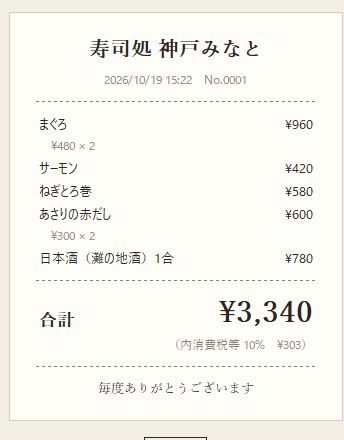
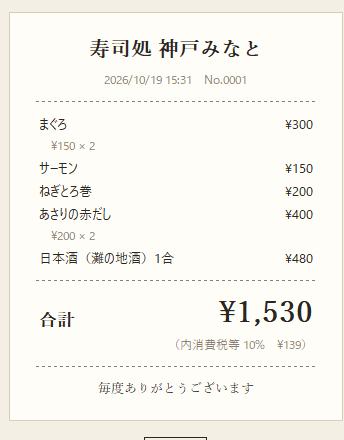
価格を回転寿司チェーンの相場に合わせて見直す
- 握りは1皿120〜330円、サイド200〜550円、ドリンク200〜550円、デザート200〜330円に
- 中とろ・大とろ・うに・いくらは1皿1貫に
- テストの金額と README（メニュー表・価格の根拠・画面画像）を更新

diff --git a/restaurant/menu.py b/restaurant/menu.py
@@ -37,54 +37,54 @@ def _item(id, name, category, price, description, allergens=(), tags=()):
 
 
 MENU = (
-    # ---- 握り（2貫） ----
-    _item("N01", "まぐろ", "握り", 480, "近海本まぐろの赤身", (), ("kids", "teen", "protein")),
-    _item("N02", "中とろ", "握り", 880, "脂と赤身のバランスが絶妙", (), ("hearty", "premium")),
-    _item("N03", "大とろ", "握り", 1280, "口の中でとろける極上部位", (), ("premium", "hearty")),
-    _item("N04", "サーモン", "握り", 420, "とろけるノルウェー産", ("さけ",), ("kids", "teen")),
-    _item("N05", "はまち", "握り", 480, "脂ののった瀬戸内産", (), ("alcohol_pair", "protein")),
-    _item("N06", "明石鯛", "握り", 580, "明石海峡で育った真鯛", (), ("healthy", "senior", "light")),
-    _item("N07", "えび", "握り", 420, "甘みのあるボイルえび", ("えび",), ("kids",)),
-    _item("N08", "いか", "握り", 380, "ねっとり甘いもんごういか", ("いか",), ("light", "alcohol_pair")),
-    _item("N09", "うに", "握り", 980, "北海道産の濃厚な生うに", (), ("premium", "alcohol_pair")),
-    _item("N10", "玉子", "握り", 280, "だしの効いた自家製厚焼き", ("卵", "大豆"), ("kids", "sweet", "senior")),
-    _item("N11", "煮穴子", "握り", 580, "ふっくら煮上げて甘だれで", ("小麦", "大豆"), ("senior", "sweet")),
-    _item("N12", "しめさば", "握り", 420, "自家製の浅じめ", ("さば",), ("alcohol_pair", "healthy")),
-    _item("N13", "ずわいがに", "握り", 780, "身をたっぷりのせて", ("かに",), ("premium",)),
-    _item("N14", "お子さま寿司セット", "握り", 880, "12歳以下限定（まぐろ・サーモン・えび・玉子・巻物）",
+    # ---- 握り（説明に「1貫」とあるもの以外は1皿2貫） ----
+    _item("N01", "まぐろ", "握り", 150, "近海本まぐろの赤身", (), ("kids", "teen", "protein")),
+    _item("N02", "中とろ", "握り", 200, "1貫・脂と赤身のバランスが絶妙", (), ("hearty", "premium")),
+    _item("N03", "大とろ", "握り", 330, "1貫・口の中でとろける極上部位", (), ("premium", "hearty")),
+    _item("N04", "サーモン", "握り", 150, "とろけるノルウェー産", ("さけ",), ("kids", "teen")),
+    _item("N05", "はまち", "握り", 150, "脂ののった瀬戸内産", (), ("alcohol_pair", "protein")),
+    _item("N06", "明石鯛", "握り", 200, "明石海峡で育った真鯛", (), ("healthy", "senior", "light")),
+    _item("N07", "えび", "握り", 130, "甘みのあるボイルえび", ("えび",), ("kids",)),
+    _item("N08", "いか", "握り", 130, "ねっとり甘いもんごういか", ("いか",), ("light", "alcohol_pair")),
+    _item("N09", "うに", "握り", 300, "1貫・北海道産の濃厚な生うに", (), ("premium", "alcohol_pair")),
+    _item("N10", "玉子", "握り", 120, "だしの効いた自家製厚焼き", ("卵", "大豆"), ("kids", "sweet", "senior")),
+    _item("N11", "煮穴子", "握り", 220, "ふっくら煮上げて甘だれで", ("小麦", "大豆"), ("senior", "sweet")),
+    _item("N12", "しめさば", "握り", 150, "自家製の浅じめ", ("さば",), ("alcohol_pair", "healthy")),
+    _item("N13", "ずわいがに", "握り", 280, "身をたっぷりのせて", ("かに",), ("premium",)),
+    _item("N14", "お子さま寿司セット", "握り", 550, "12歳以下限定（まぐろ・サーモン・えび・玉子・巻物）",
           ("卵", "えび", "さけ", "小麦", "大豆"), ("kids_only", "kids")),
     # ---- 巻物・軍艦 ----
-    _item("K01", "鉄火巻", "巻物・軍艦", 520, "まぐろ赤身の細巻き", (), ("protein", "share")),
-    _item("K02", "かっぱ巻", "巻物・軍艦", 280, "きゅうりと白ごま", ("ごま",), ("light", "healthy")),
-    _item("K03", "ねぎとろ巻", "巻物・軍艦", 580, "まぐろのたたきと青ねぎ", (), ("teen", "share", "senior")),
-    _item("K04", "いくら軍艦", "巻物・軍艦", 780, "自家製醤油漬け", ("いくら", "小麦", "大豆"), ("premium", "alcohol_pair")),
-    _item("K05", "カリフォルニアロール", "巻物・軍艦", 680, "かにかま・アボカド・マヨネーズ",
+    _item("K01", "鉄火巻", "巻物・軍艦", 220, "まぐろ赤身の細巻き", (), ("protein", "share")),
+    _item("K02", "かっぱ巻", "巻物・軍艦", 130, "きゅうりと白ごま", ("ごま",), ("light", "healthy")),
+    _item("K03", "ねぎとろ巻", "巻物・軍艦", 200, "まぐろのたたきと青ねぎ", (), ("teen", "share", "senior")),
+    _item("K04", "いくら軍艦", "巻物・軍艦", 360, "1貫・自家製醤油漬け", ("いくら", "小麦", "大豆"), ("premium", "alcohol_pair")),
+    _item("K05", "カリフォルニアロール", "巻物・軍艦", 260, "かにかま・アボカド・マヨネーズ",
           ("卵", "小麦", "かに", "大豆", "ごま"), ("teen", "share", "hearty")),
-    _item("K06", "サラダ軍艦", "巻物・軍艦", 380, "かにかまとマヨネーズ", ("卵", "小麦", "かに", "大豆"), ("kids", "teen")),
+    _item("K06", "サラダ軍艦", "巻物・軍艦", 120, "かにかまとマヨネーズ", ("卵", "小麦", "かに", "大豆"), ("kids", "teen")),
     # ---- 一品料理 ----
-    _item("I01", "茶碗蒸し", "一品料理", 420, "えびと銀杏入り", ("卵", "えび", "小麦", "大豆"), ("senior", "light", "kids")),
-    _item("I02", "えび天ぷら", "一品料理", 780, "大えび2本を天つゆで", ("えび", "小麦", "卵", "大豆"), ("hearty", "alcohol_pair")),
-    _item("I03", "鶏の唐揚げ", "一品料理", 580, "生姜醤油に漬け込んで", ("小麦", "大豆"), ("kids", "teen", "hearty", "share")),
-    _item("I04", "枝豆", "一品料理", 380, "塩ゆでしたての丹波産", ("大豆",), ("alcohol_pair", "healthy", "share")),
-    _item("I05", "あさりの赤だし", "一品料理", 300, "八丁味噌の香り", ("大豆",), ("senior", "healthy", "light")),
-    _item("I06", "天ざるそば", "一品料理", 980, "二八そばとえび天", ("そば", "小麦", "えび", "卵", "大豆"), ("hearty",)),
-    _item("I07", "いんげんのピーナッツ和え", "一品料理", 380, "香ばしい落花生だれ", ("落花生", "大豆"), ("healthy",)),
+    _item("I01", "茶碗蒸し", "一品料理", 260, "えびと銀杏入り", ("卵", "えび", "小麦", "大豆"), ("senior", "light", "kids")),
+    _item("I02", "えび天ぷら", "一品料理", 400, "大えび2本を天つゆで", ("えび", "小麦", "卵", "大豆"), ("hearty", "alcohol_pair")),
+    _item("I03", "鶏の唐揚げ", "一品料理", 380, "生姜醤油に漬け込んで", ("小麦", "大豆"), ("kids", "teen", "hearty", "share")),
+    _item("I04", "枝豆", "一品料理", 200, "塩ゆでしたての丹波産", ("大豆",), ("alcohol_pair", "healthy", "share")),
+    _item("I05", "あさりの赤だし", "一品料理", 200, "八丁味噌の香り", ("大豆",), ("senior", "healthy", "light")),
+    _item("I06", "天ざるそば", "一品料理", 550, "二八そばとえび天", ("そば", "小麦", "えび", "卵", "大豆"), ("hearty",)),
+    _item("I07", "いんげんのピーナッツ和え", "一品料理", 200, "香ばしい落花生だれ", ("落花生", "大豆"), ("healthy",)),
     # ---- ドリンク ----
-    _item("D01", "オレンジジュース", "ドリンク", 280, "果汁100%", (), ("kids", "soft")),
-    _item("D02", "ウーロン茶", "ドリンク", 280, "すっきり無糖", (), ("soft", "healthy", "senior")),
-    _item("D03", "コーラ", "ドリンク", 300, "よく冷えた瓶で", (), ("teen", "soft")),
-    _item("D04", "ラムネ", "ドリンク", 250, "昔なつかしのびん入り", (), ("kids", "teen", "soft")),
-    _item("D05", "生ビール", "ドリンク", 580, "※20歳以上", (), ("alcohol", "hearty")),
-    _item("D06", "日本酒（灘の地酒）1合", "ドリンク", 780, "※20歳以上・冷/燗", (), ("alcohol", "alcohol_pair", "senior")),
-    _item("D07", "レモンサワー", "ドリンク", 480, "※20歳以上", (), ("alcohol", "light")),
-    _item("D08", "抹茶ラテ", "ドリンク", 420, "宇治抹茶とミルク", ("乳",), ("sweet", "soft")),
+    _item("D01", "オレンジジュース", "ドリンク", 200, "果汁100%", (), ("kids", "soft")),
+    _item("D02", "ウーロン茶", "ドリンク", 200, "すっきり無糖", (), ("soft", "healthy", "senior")),
+    _item("D03", "コーラ", "ドリンク", 220, "よく冷えた瓶で", (), ("teen", "soft")),
+    _item("D04", "ラムネ", "ドリンク", 200, "昔なつかしのびん入り", (), ("kids", "teen", "soft")),
+    _item("D05", "生ビール", "ドリンク", 550, "※20歳以上・中ジョッキ", (), ("alcohol", "hearty")),
+    _item("D06", "日本酒（灘の地酒）1合", "ドリンク", 480, "※20歳以上・冷/燗", (), ("alcohol", "alcohol_pair", "senior")),
+    _item("D07", "レモンサワー", "ドリンク", 420, "※20歳以上", (), ("alcohol", "light")),
+    _item("D08", "抹茶ラテ", "ドリンク", 280, "宇治抹茶とミルク", ("乳",), ("sweet", "soft")),
     # ---- デザート ----
-    _item("S01", "抹茶アイス", "デザート", 320, "濃いめの宇治抹茶", ("乳",), ("sweet", "kids", "light")),
-    _item("S02", "わらびもち", "デザート", 380, "きな粉と黒蜜で", ("大豆",), ("sweet", "senior", "light")),
-    _item("S03", "杏仁豆腐", "デザート", 350, "なめらかな口あたり", ("乳",), ("sweet", "light")),
-    _item("S04", "黒ごまプリン", "デザート", 380, "香ばしい練りごま", ("乳", "ごま"), ("sweet", "healthy")),
-    _item("S05", "季節のフルーツ盛り", "デザート", 480, "旬の果物を3種", (), ("healthy", "light")),
-    _item("S06", "くるみ餅", "デザート", 380, "くるみ入りのもちもち和菓子", ("くるみ", "大豆"), ("sweet", "senior")),
+    _item("S01", "抹茶アイス", "デザート", 200, "濃いめの宇治抹茶", ("乳",), ("sweet", "kids", "light")),
+    _item("S02", "わらびもち", "デザート", 200, "きな粉と黒蜜で", ("大豆",), ("sweet", "senior", "light")),
+    _item("S03", "杏仁豆腐", "デザート", 200, "なめらかな口あたり", ("乳",), ("sweet", "light")),
+    _item("S04", "黒ごまプリン", "デザート", 250, "香ばしい練りごま", ("乳", "ごま"), ("sweet", "healthy")),
+    _item("S05", "季節のフルーツ盛り", "デザート", 330, "旬の果物を3種", (), ("healthy", "light")),
+    _item("S06", "くるみ餅", "デザート", 220, "くるみ入りのもちもち和菓子", ("くるみ", "大豆"), ("sweet", "senior")),
 )
 
 _MENU_BY_ID = {item.id: item for item in MENU}

diff --git a/tests/test_order_service.py b/tests/test_order_service.py
@@ -13,9 +13,9 @@ class OrderServiceTest(unittest.TestCase):
         self.db.close()
 
     def test_add_with_quantity(self):
-        self.service.add("N02", 2)   # 880 x 2
-        self.service.add("D01", 1)   # 280
-        self.assertEqual(self.service.total(), 2040)
+        self.service.add("N02", 2)   # 200 x 2
+        self.service.add("D01", 1)   # 200
+        self.assertEqual(self.service.total(), 600)
         self.assertEqual([(l.menu_id, l.quantity) for l in self.service.lines()], [("N02", 2), ("D01", 1)])
 
     def test_invalid_add(self):
@@ -29,7 +29,7 @@ class OrderServiceTest(unittest.TestCase):
         drop = self.service.add("D05", 3)
         self.service.cancel(drop)
         self.assertEqual([l.id for l in self.service.lines()], [keep])
-        self.assertEqual(self.service.total(), 480)
+        self.assertEqual(self.service.total(), 150)
         # 取消も履歴として残る
         row = self.db.get_item(drop)
         self.assertEqual(row["status"], "cancelled")
@@ -44,16 +44,16 @@ class OrderServiceTest(unittest.TestCase):
             self.service.cancel(line)
 
     def test_checkout_records_total_and_starts_new_order(self):
-        self.service.add("N03", 1)   # 1280
-        self.service.add("S02", 2)   # 380 x 2
+        self.service.add("N03", 1)   # 330
+        self.service.add("S02", 2)   # 200 x 2
         first_order = self.service.order_id
         receipt = self.service.checkout()
-        self.assertEqual(receipt.total, 1280 + 380 * 2)
+        self.assertEqual(receipt.total, 330 + 200 * 2)
         self.assertNotEqual(self.service.order_id, first_order)
         self.assertEqual(self.service.lines(), [])
         history = self.service.history()
         self.assertEqual(history[0]["id"], first_order)
-        self.assertEqual(history[0]["total"], 2040)
+        self.assertEqual(history[0]["total"], 730)
         self.assertEqual(history[0]["item_count"], 3)
 
     def test_checkout_empty(self):
@@ -64,7 +64,7 @@ class OrderServiceTest(unittest.TestCase):
         self.service.add("K02", 1)
         resumed = OrderService(self.db)
         self.assertEqual(resumed.order_id, self.service.order_id)
-        self.assertEqual(resumed.total(), 280)
+        self.assertEqual(resumed.total(), 130)
 
     def test_recommendation_is_logged(self):
         self.service.recommend(30, "女性", ["乳", "卵"])

diff --git a/restaurant/gui.py b/restaurant/gui.py
@@ -196,7 +196,7 @@ class OrderApp(tk.Frame):
     def _build_menu_panel(self, parent):
         frame = tk.Frame(parent, bg=PAPER)
         frame.pack(fill="both", expand=True)
-        section_title(frame, "お品書き", "握りは二貫・価格は税込")
+        section_title(frame, "お品書き", "握りは一皿二貫（一貫のものは説明に記載）・価格は税込")
 
         CategoryTabs(frame, (ALL_CATEGORIES, *CATEGORIES), self.category_var,
                      self.show_category).pack(fill="x", pady=(0, 8))

diff --git a/README.md b/README.md
@@ -42,7 +42,7 @@ python -m unittest -v
 | # | 要件 | 画面での確認方法 | 実装箇所 |
 |---|---|---|---|
 | 1 | 店名表示 | 起動すると画面上部とタイトルバーに「寿司処 神戸みなと」と表示されます。 | `config.py` / `gui.py` |
-| 2 | メニュー表示（20品以上・カテゴリ切替・適正価格） | 全41品（握り14・巻物・軍艦6・一品料理7・ドリンク8・デザート6）。「お品書き」の上の「すべて／握り／巻物・軍艦／一品料理／ドリンク／デザート」をクリックして切り替えます。価格は税込で、握りは2貫の値段です。 | `menu.py` |
+| 2 | メニュー表示（20品以上・カテゴリ切替・適正価格） | 全41品（握り14・巻物・軍艦6・一品料理7・ドリンク8・デザート6）。「お品書き」の上の「すべて／握り／巻物・軍艦／一品料理／ドリンク／デザート」をクリックして切り替えます。価格は税込で、回転寿司チェーンの相場に合わせています（握りは1皿2貫、とろ・うに・いくらは1貫）。 | `menu.py` |
 | 3 | 注文（数量指定・会計前の取消） | 品を選び、数量（1〜99）を入れて「注文」を押します（品名のダブルクリックでも可）。取り消すときは、右の「お伝票」で行を選び（Ctrl/Shift で複数選択可）「取消」を押します。 | `order_service.py` |
 | 4 | 注文データの記録 | 注文・取消・会計はすべて SQLite（`data/orders.db`）に記録されます。取り消した注文も削除せず「取消」状態で残ります。会計済みの伝票は、画面右上の「会計履歴」から一覧できます。 | `database.py` |
 | 5 | おすすめ機能 | 「おすすめ」欄に年齢と性別を入れて「表示」を押すと、カテゴリごとに1品ずつ理由付きで表示されます。選んで「選んだ品を注文」で、そのまま注文もできます。 | `recommend.py` |
@@ -143,7 +143,7 @@ sequenceDiagram
 
 ## 5. データ設計
 
-### 4.1 メニュー（`restaurant/menu.py`）
+### 5.1 メニュー（`restaurant/menu.py`）
 
 メニューは変更が少ないので、コード内の定数として持っています。
 
@@ -152,12 +152,12 @@ sequenceDiagram
 | id | str | メニューID（カテゴリの頭文字＋連番） | `N10` |
 | name | str | 品名 | 玉子 |
 | category | str | 握り / 巻物・軍艦 / 一品料理 / ドリンク / デザート | 握り |
-| price | int | 税込価格（円） | 280 |
-| description | str | 説明文 | だしの効いた自家製厚焼き |
+| price | int | 税込価格（円） | 120 |
+| description | str | 説明文（1貫の品は先頭に「1貫・」） | だしの効いた自家製厚焼き |
 | allergens | frozenset | 含まれるアレルゲン（`ALLERGENS` の名前のみ） | `{"卵", "大豆"}` |
 | tags | frozenset | おすすめ判定用タグ | `{"kids", "sweet", "senior"}` |
 
-### 4.2 アレルゲン
+### 5.2 アレルゲン
 
 | 区分 | 品目 |
 |---|---|
@@ -170,53 +170,73 @@ sequenceDiagram
 <details>
 <summary>メニュー一覧（41品・アレルゲン付き）</summary>
 
-| ID | 品名 | カテゴリ | 価格 | アレルギー |
-|---|---|---|---|---|
-| N01 | まぐろ | 握り | ¥480 | なし |
-| N02 | 中とろ | 握り | ¥880 | なし |
-| N03 | 大とろ | 握り | ¥1,280 | なし |
-| N04 | サーモン | 握り | ¥420 | さけ |
-| N05 | はまち | 握り | ¥480 | なし |
-| N06 | 明石鯛 | 握り | ¥580 | なし |
-| N07 | えび | 握り | ¥420 | えび |
-| N08 | いか | 握り | ¥380 | いか |
-| N09 | うに | 握り | ¥980 | なし |
-| N10 | 玉子 | 握り | ¥280 | 卵・大豆 |
-| N11 | 煮穴子 | 握り | ¥580 | 小麦・大豆 |
-| N12 | しめさば | 握り | ¥420 | さば |
-| N13 | ずわいがに | 握り | ¥780 | かに |
-| N14 | お子さま寿司セット | 握り | ¥880 | 卵・小麦・えび・さけ・大豆 |
-| K01 | 鉄火巻 | 巻物・軍艦 | ¥520 | なし |
-| K02 | かっぱ巻 | 巻物・軍艦 | ¥280 | ごま |
-| K03 | ねぎとろ巻 | 巻物・軍艦 | ¥580 | なし |
-| K04 | いくら軍艦 | 巻物・軍艦 | ¥780 | 小麦・いくら・大豆 |
-| K05 | カリフォルニアロール | 巻物・軍艦 | ¥680 | 卵・小麦・かに・大豆・ごま |
-| K06 | サラダ軍艦 | 巻物・軍艦 | ¥380 | 卵・小麦・かに・大豆 |
-| I01 | 茶碗蒸し | 一品料理 | ¥420 | 卵・小麦・えび・大豆 |
-| I02 | えび天ぷら | 一品料理 | ¥780 | 卵・小麦・えび・大豆 |
-| I03 | 鶏の唐揚げ | 一品料理 | ¥580 | 小麦・大豆 |
-| I04 | 枝豆 | 一品料理 | ¥380 | 大豆 |
-| I05 | あさりの赤だし | 一品料理 | ¥300 | 大豆 |
-| I06 | 天ざるそば | 一品料理 | ¥980 | 卵・小麦・えび・そば・大豆 |
-| I07 | いんげんのピーナッツ和え | 一品料理 | ¥380 | 落花生・大豆 |
-| D01 | オレンジジュース | ドリンク | ¥280 | なし |
-| D02 | ウーロン茶 | ドリンク | ¥280 | なし |
-| D03 | コーラ | ドリンク | ¥300 | なし |
-| D04 | ラムネ | ドリンク | ¥250 | なし |
-| D05 | 生ビール | ドリンク | ¥580 | なし |
-| D06 | 日本酒（灘の地酒）1合 | ドリンク | ¥780 | なし |
-| D07 | レモンサワー | ドリンク | ¥480 | なし |
-| D08 | 抹茶ラテ | ドリンク | ¥420 | 乳 |
-| S01 | 抹茶アイス | デザート | ¥320 | 乳 |
-| S02 | わらびもち | デザート | ¥380 | 大豆 |
-| S03 | 杏仁豆腐 | デザート | ¥350 | 乳 |
-| S04 | 黒ごまプリン | デザート | ¥380 | 乳・ごま |
-| S05 | 季節のフルーツ盛り | デザート | ¥480 | なし |
-| S06 | くるみ餅 | デザート | ¥380 | くるみ・大豆 |
+| ID | 品名 | カテゴリ | 量 | 価格 | アレルギー |
+|---|---|---|---|---|---|
+| N01 | まぐろ | 握り | 2貫 | ¥150 | なし |
+| N02 | 中とろ | 握り | 1貫 | ¥200 | なし |
+| N03 | 大とろ | 握り | 1貫 | ¥330 | なし |
+| N04 | サーモン | 握り | 2貫 | ¥150 | さけ |
+| N05 | はまち | 握り | 2貫 | ¥150 | なし |
+| N06 | 明石鯛 | 握り | 2貫 | ¥200 | なし |
+| N07 | えび | 握り | 2貫 | ¥130 | えび |
+| N08 | いか | 握り | 2貫 | ¥130 | いか |
+| N09 | うに | 握り | 1貫 | ¥300 | なし |
+| N10 | 玉子 | 握り | 2貫 | ¥120 | 卵・大豆 |
+| N11 | 煮穴子 | 握り | 2貫 | ¥220 | 小麦・大豆 |
+| N12 | しめさば | 握り | 2貫 | ¥150 | さば |
+| N13 | ずわいがに | 握り | 2貫 | ¥280 | かに |
+| N14 | お子さま寿司セット | 握り |  | ¥550 | 卵・小麦・えび・さけ・大豆 |
+| K01 | 鉄火巻 | 巻物・軍艦 |  | ¥220 | なし |
+| K02 | かっぱ巻 | 巻物・軍艦 |  | ¥130 | ごま |
+| K03 | ねぎとろ巻 | 巻物・軍艦 |  | ¥200 | なし |
+| K04 | いくら軍艦 | 巻物・軍艦 | 1貫 | ¥360 | 小麦・いくら・大豆 |
+| K05 | カリフォルニアロール | 巻物・軍艦 |  | ¥260 | 卵・小麦・かに・大豆・ごま |
+| K06 | サラダ軍艦 | 巻物・軍艦 |  | ¥120 | 卵・小麦・かに・大豆 |
+| I01 | 茶碗蒸し | 一品料理 |  | ¥260 | 卵・小麦・えび・大豆 |
+| I02 | えび天ぷら | 一品料理 |  | ¥400 | 卵・小麦・えび・大豆 |
+| I03 | 鶏の唐揚げ | 一品料理 |  | ¥380 | 小麦・大豆 |
+| I04 | 枝豆 | 一品料理 |  | ¥200 | 大豆 |
+| I05 | あさりの赤だし | 一品料理 |  | ¥200 | 大豆 |
+| I06 | 天ざるそば | 一品料理 |  | ¥550 | 卵・小麦・えび・そば・大豆 |
+| I07 | いんげんのピーナッツ和え | 一品料理 |  | ¥200 | 落花生・大豆 |
+| D01 | オレンジジュース | ドリンク |  | ¥200 | なし |
+| D02 | ウーロン茶 | ドリンク |  | ¥200 | なし |
+| D03 | コーラ | ドリンク |  | ¥220 | なし |
+| D04 | ラムネ | ドリンク |  | ¥200 | なし |
+| D05 | 生ビール | ドリンク |  | ¥550 | なし |
+| D06 | 日本酒（灘の地酒）1合 | ドリンク |  | ¥480 | なし |
+| D07 | レモンサワー | ドリンク |  | ¥420 | なし |
+| D08 | 抹茶ラテ | ドリンク |  | ¥280 | 乳 |
+| S01 | 抹茶アイス | デザート |  | ¥200 | 乳 |
+| S02 | わらびもち | デザート |  | ¥200 | 大豆 |
+| S03 | 杏仁豆腐 | デザート |  | ¥200 | 乳 |
+| S04 | 黒ごまプリン | デザート |  | ¥250 | 乳・ごま |
+| S05 | 季節のフルーツ盛り | デザート |  | ¥330 | なし |
+| S06 | くるみ餅 | デザート |  | ¥220 | くるみ・大豆 |
 
 </details>
 
-### 4.3 注文データ（SQLite: `data/orders.db`）
+### 5.3 価格の決め方
+
+大手回転寿司チェーンの2026年の価格を調べ、それと同じくらいの価格帯にしています（すべて税込）。
+
+| 区分 | 調べた価格 | 本アプリの価格 |
+|---|---|---|
+| 定番ネタ（まぐろ・サーモンなど） | くら寿司は最低110円、サーモンなど33品は120円（2026年9月改定） | 120〜150円（2貫） |
+| 中とろ・うに | スシローの通常価格は180円〜 | 中とろ200円・うに300円（1貫） |
+| いくら | スシロー「北海道産 上いくら」360円〜 | 360円（1貫） |
+| 大とろ | スシローのフェア価格は110円〜（期間限定） | 330円（1貫。フェアではない通常の値段として設定） |
+| 茶碗蒸し・唐揚げ | スシローは茶碗蒸し240円（掲載時期は不明）、唐揚げ360円〜 | 茶碗蒸し260円・唐揚げ380円 |
+| ドリンク・デザート | チェーンの公式価格は見つからなかった | ソフトドリンク200円前後、生ビール550円、デザート200〜330円（推定） |
+
+参考にした記事:
+- [くら寿司 価格改定のお知らせ（北海道新聞）](https://www.hokkaido-np.co.jp/article/1355650/)
+- [スシロー 中とろ・うにが180→110円になる「すし初め」（livedoor ニュース）](https://news.livedoor.com/article/detail/30338958/)
+- [スシロー 110円の大とろ・上いくらなど夏の新メニュー（グルメ Watch）](https://gourmet.watch.impress.co.jp/docs/news/2129664.html)
+
+価格は時期や店舗で変わります。ここに載せた数字は2026年10月に調べたものです。
+
+### 5.4 注文データ（SQLite: `data/orders.db`）
 
 ```mermaid
 erDiagram
